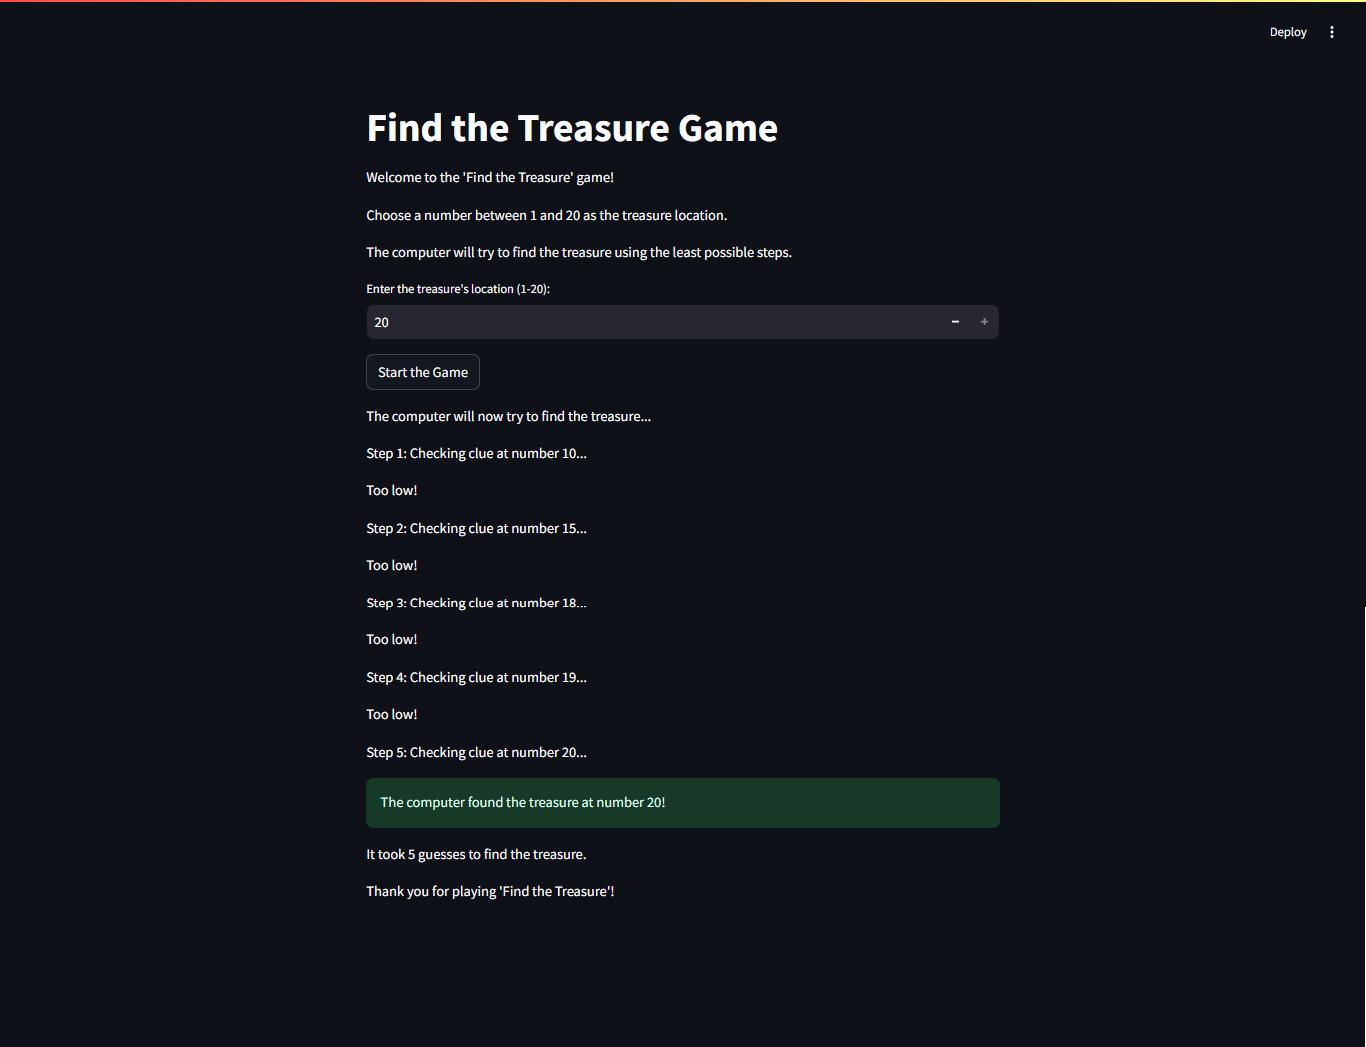
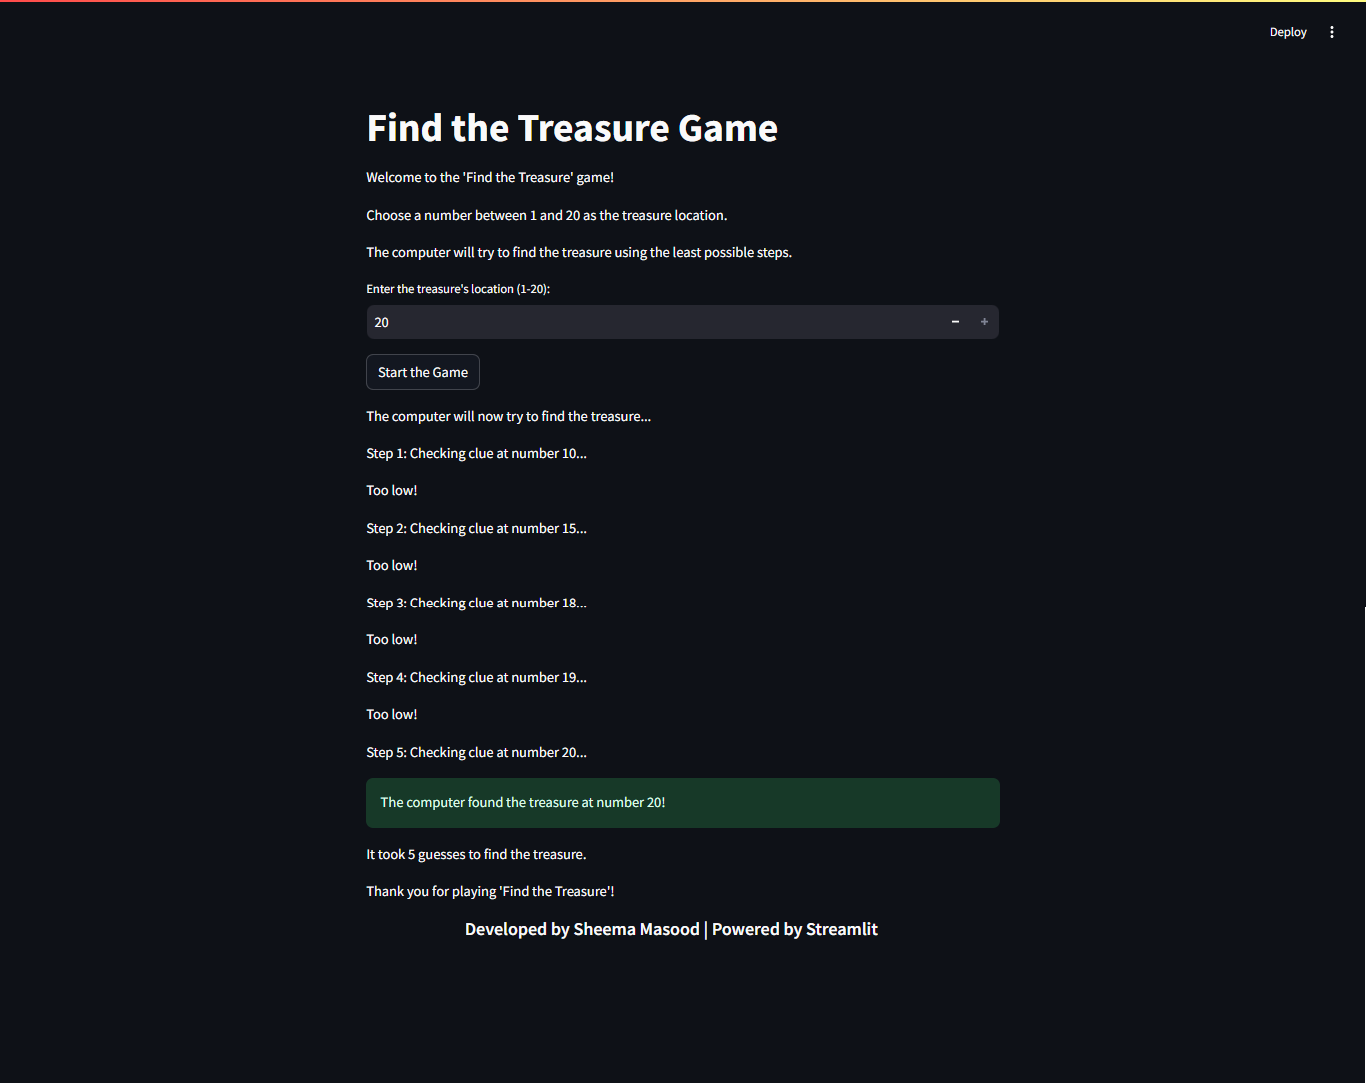
updates

Changed region(s): [[0.246, 0.0917, 0.7379, 0.8863]]

diff --git a/Tasks/find the treasure/Find_the_treasure.py b/Tasks/find the treasure/Find_the_treasure.py
@@ -34,6 +34,10 @@ def find_the_treasure_streamlit():
                 break
 
         st.write("Thank you for playing 'Find the Treasure'!")
+        st.markdown("<h5 style='text-align: center;'>Developed by Sheema Masood | Powered by Streamlit</h5>", unsafe_allow_html=True)
+
 
 if __name__ == "__main__":
     find_the_treasure_streamlit()
+
+
